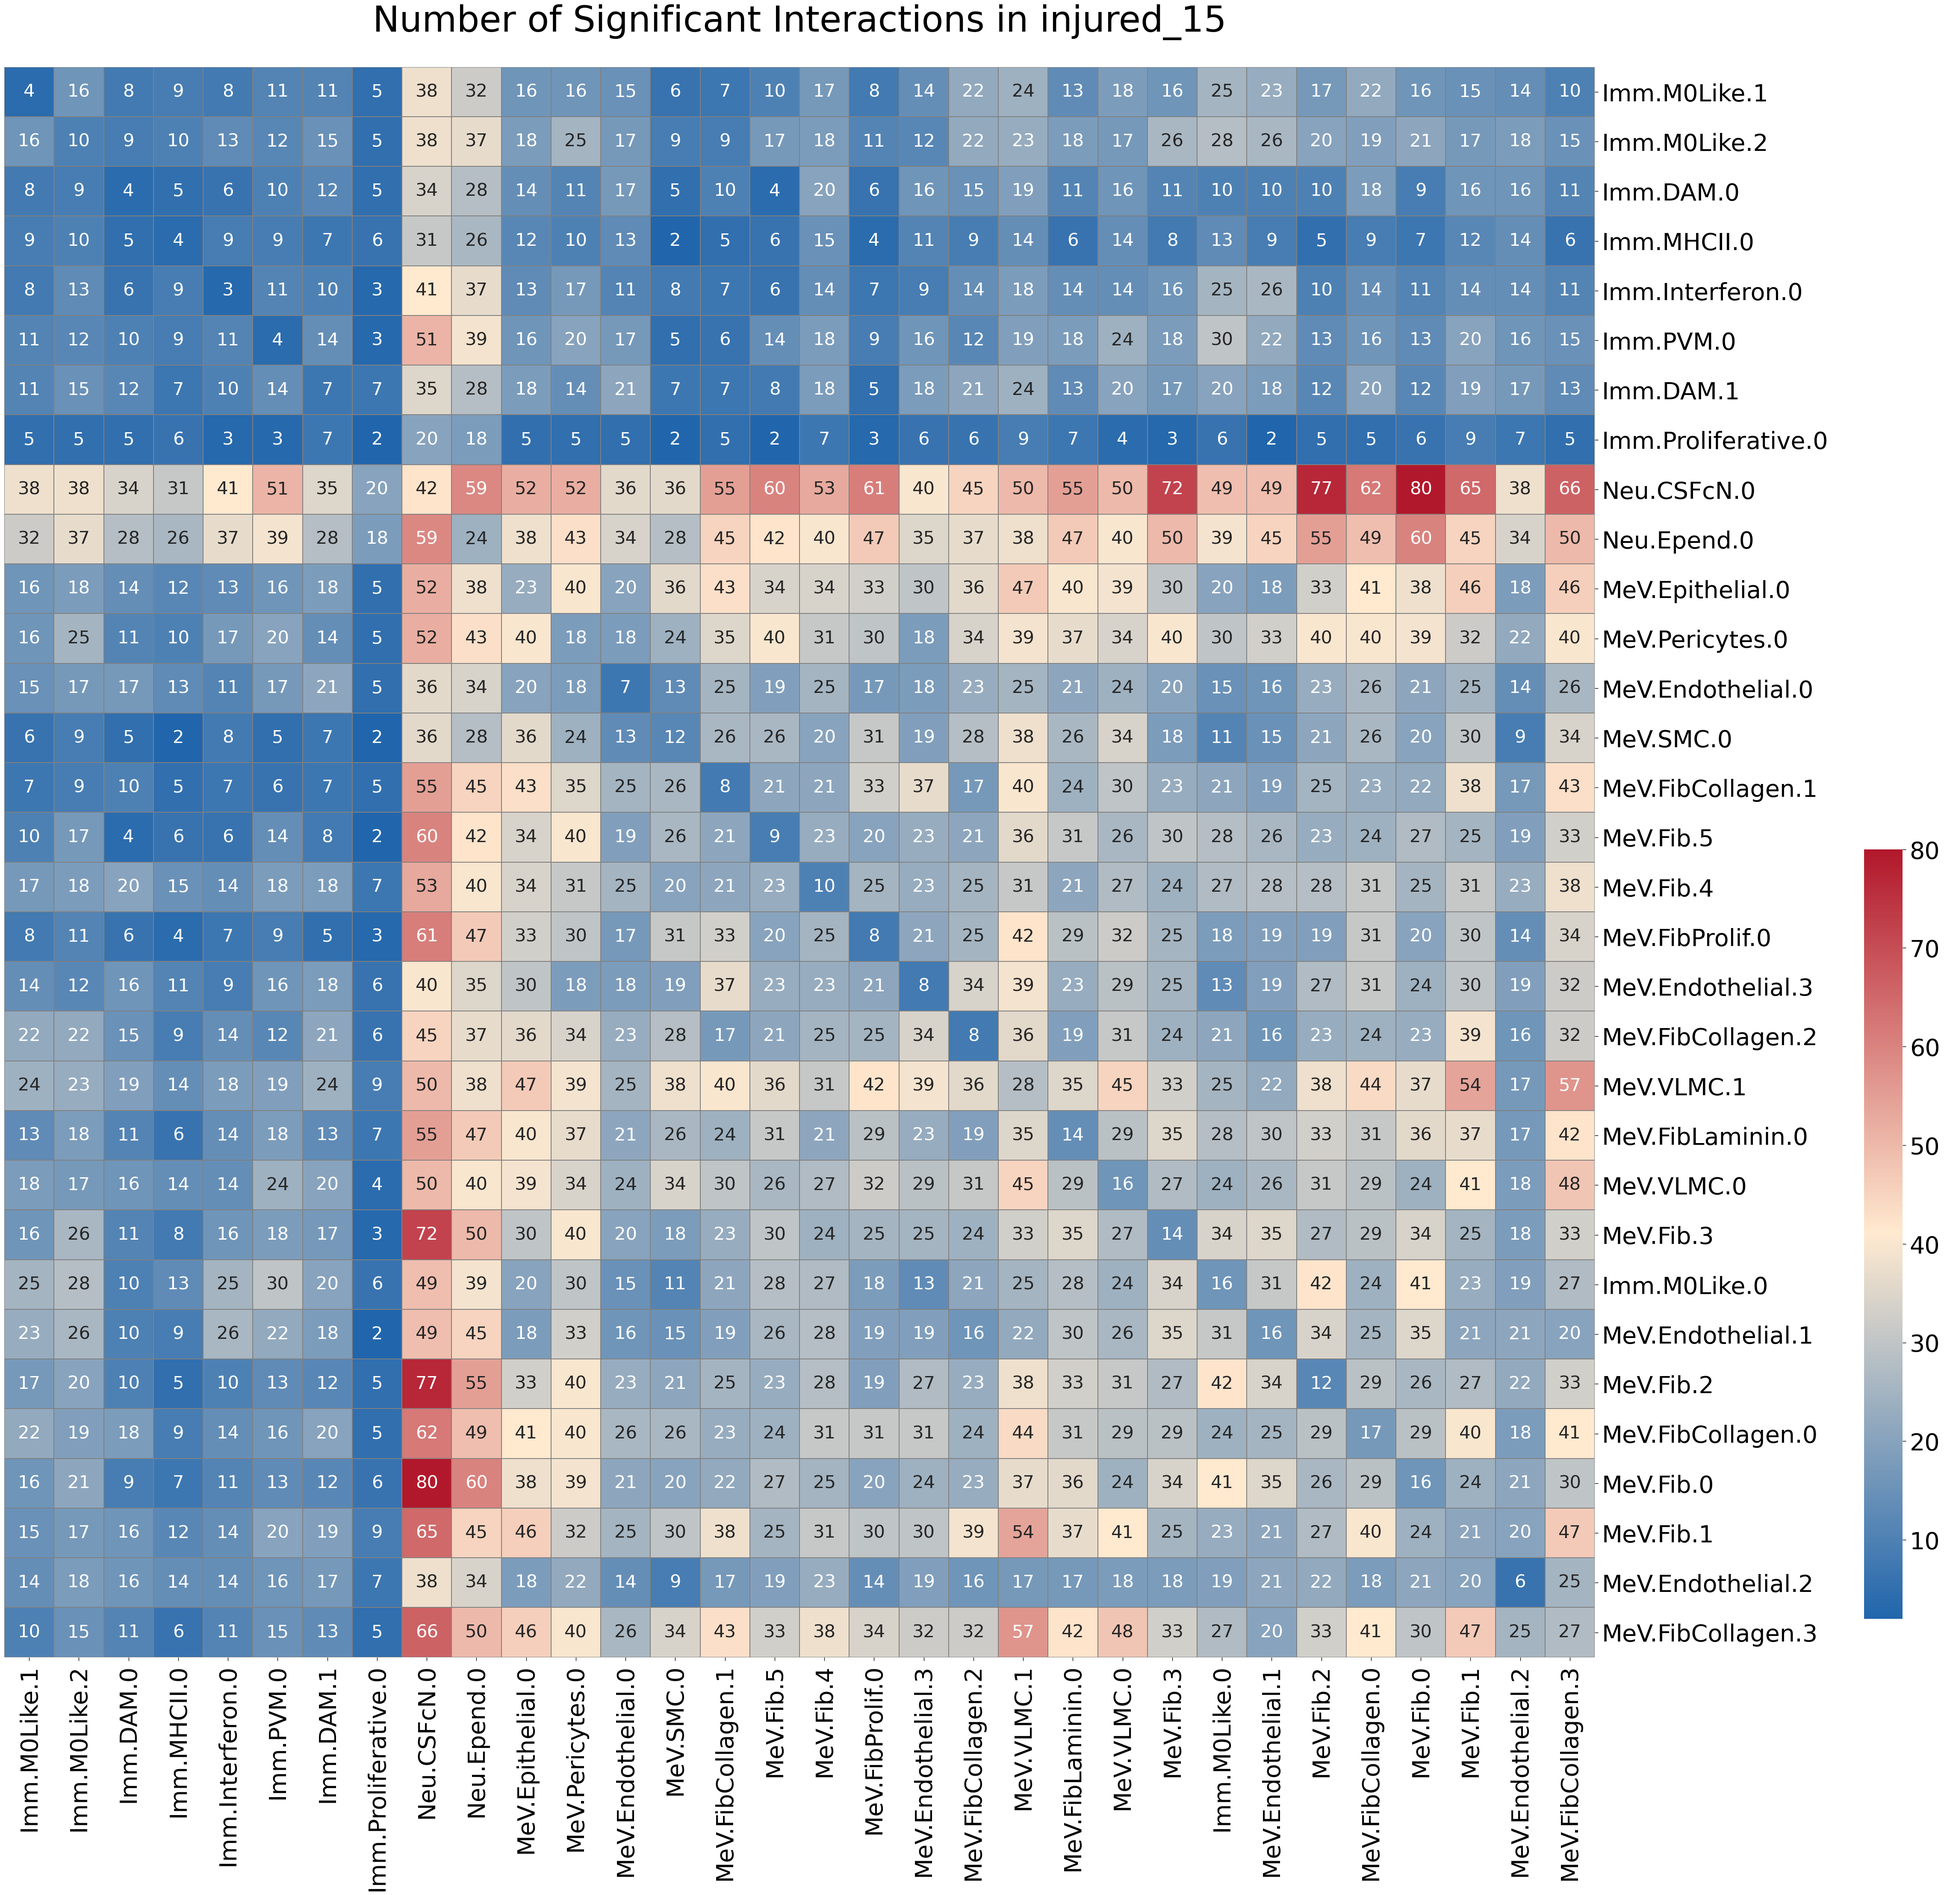
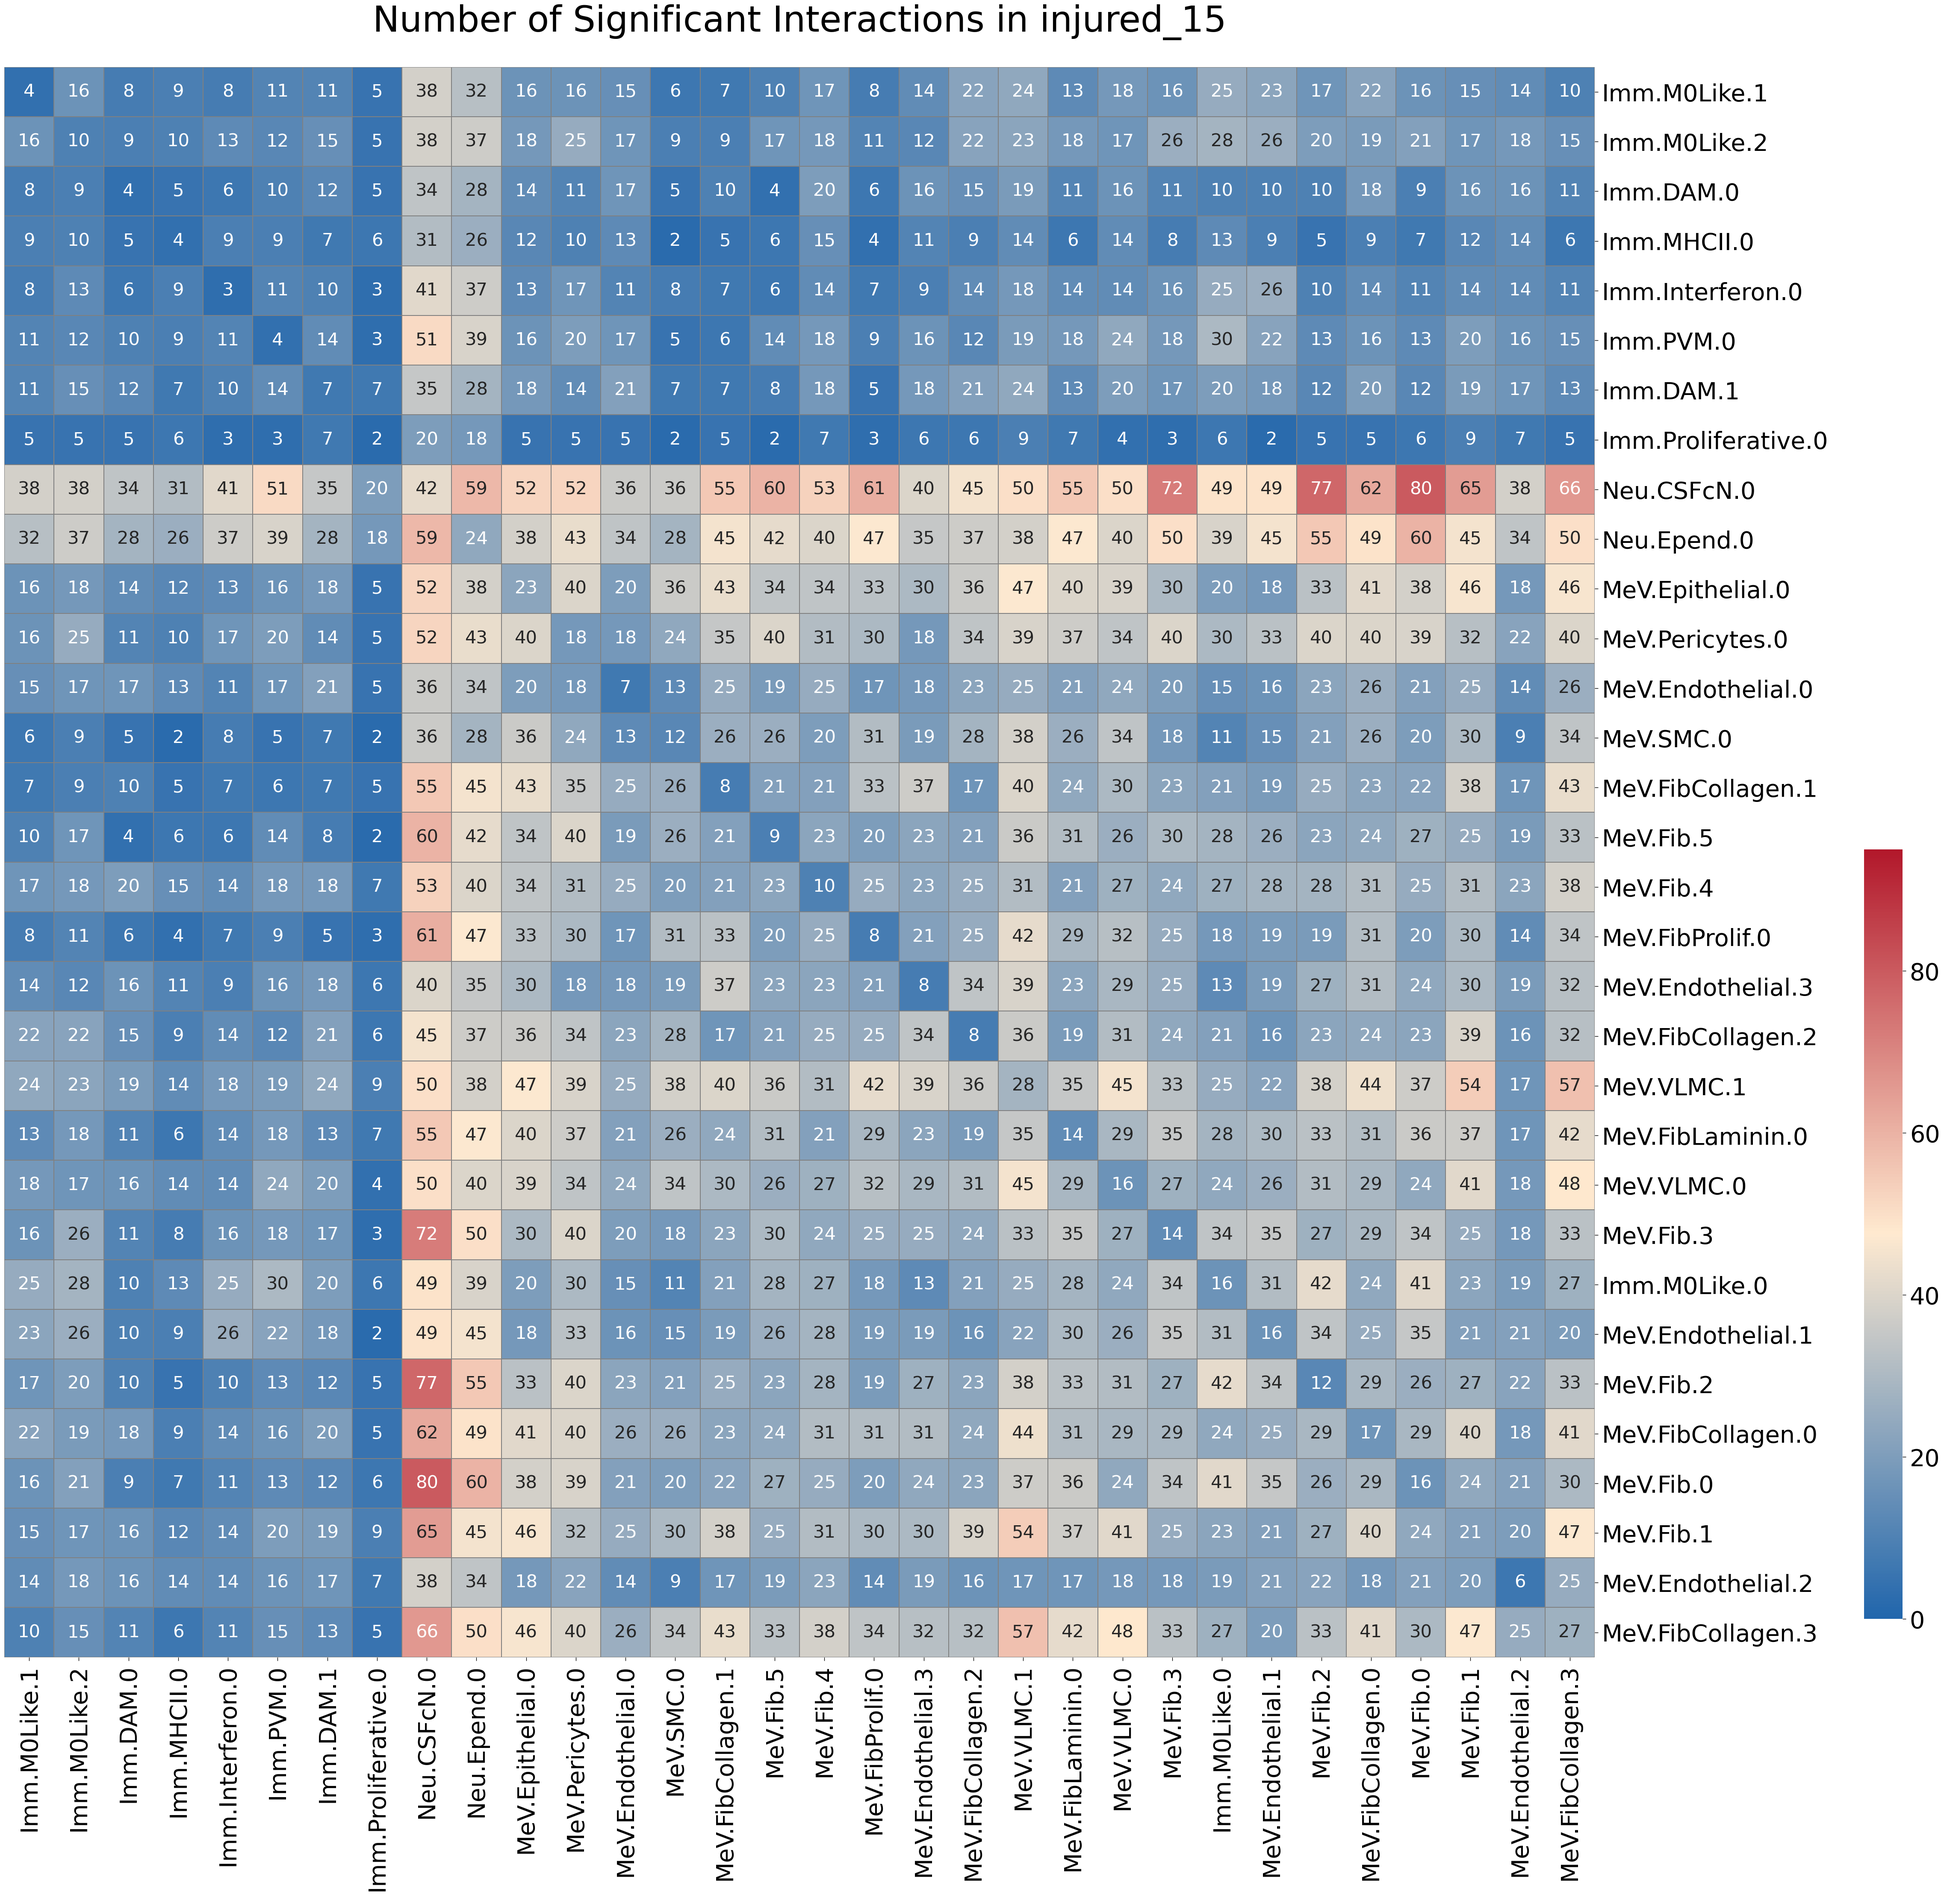
edit gradient limits

diff --git a/src/scripts/scripts_cellphonedb/plot_cellphonedb.py b/src/scripts/scripts_cellphonedb/plot_cellphonedb.py
@@ -86,7 +86,8 @@ def plot_heatmaps(adata: sc.AnnData, log1p: bool = False) -> None:
     clusterg.savefig(output_path, bbox_inches="tight")
     plt.close()
 
-def test_heatmap(adata: sc.AnnData, obs_key: str = None, category: str = None, remove_clusters: list = []):
+def test_heatmap(adata: sc.AnnData, obs_key: str = None, category: str = None, remove_clusters: list = [], vmin: int = None, vmax: int = None):
+
     import matplotlib.pyplot as plt
     import seaborn as sns
     import pandas as pd
@@ -142,19 +143,20 @@ def test_heatmap(adata: sc.AnnData, obs_key: str = None, category: str = None, r
     # Create the colormap
     custom_cmap = LinearSegmentedColormap.from_list("custom_bluered", custom_colors, N=256)
 
-    # Create the heatmap
     ax = sns.heatmap(
         ordered_matrix,
         annot=True,
         fmt=".0f",
-        cmap= custom_cmap,  
+        cmap=custom_cmap,
         linewidths=0.2,
         linecolor='gray',
         square=True,
         cbar_kws={"shrink": 0.8},
         xticklabels=True,
         yticklabels=True,
-        annot_kws={"size": 30}
+        annot_kws={"size": 30},
+        vmin=vmin,
+        vmax=vmax
     )
 
     # Title and axis customization
@@ -701,9 +703,9 @@ def start() -> None:
         
         remove_clusters = ["MeV.ImmuneDoublets.0", "MeV.FibUnknown.6", "MeV.LowQuality.0"]
         test_heatmap(adata)
-        test_heatmap(adata, obs_key="injury_day", category="injured_15", remove_clusters=remove_clusters)
-        test_heatmap(adata, obs_key="injury_day", category="injured_60", remove_clusters=remove_clusters)
-        test_heatmap(adata, obs_key="injury_day", category="uninjured", remove_clusters=remove_clusters)
+        test_heatmap(adata, obs_key="injury_day", category="injured_15", remove_clusters=remove_clusters, vmin = 0, vmax = 95)
+        test_heatmap(adata, obs_key="injury_day", category="injured_60", remove_clusters=remove_clusters, vmin = 0, vmax = 95)
+        test_heatmap(adata, obs_key="injury_day", category="uninjured", remove_clusters=remove_clusters, vmin = 0, vmax = 95)
 
         # # Lineages vs Other lineages interactions
         # plot_lineage_vs_other_interactions(adata=adata, lineage_prefix="Neu")
